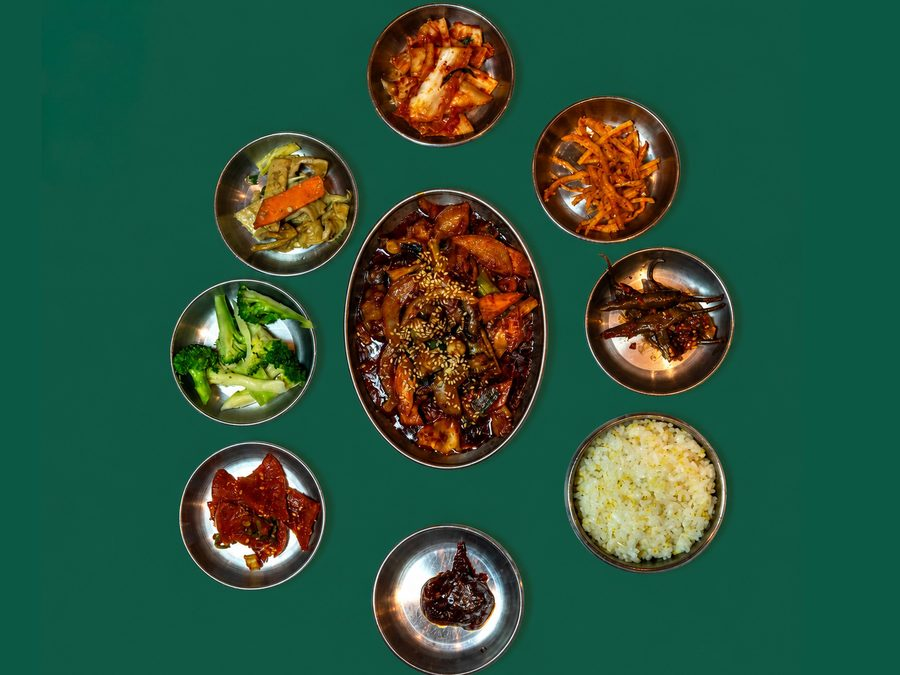
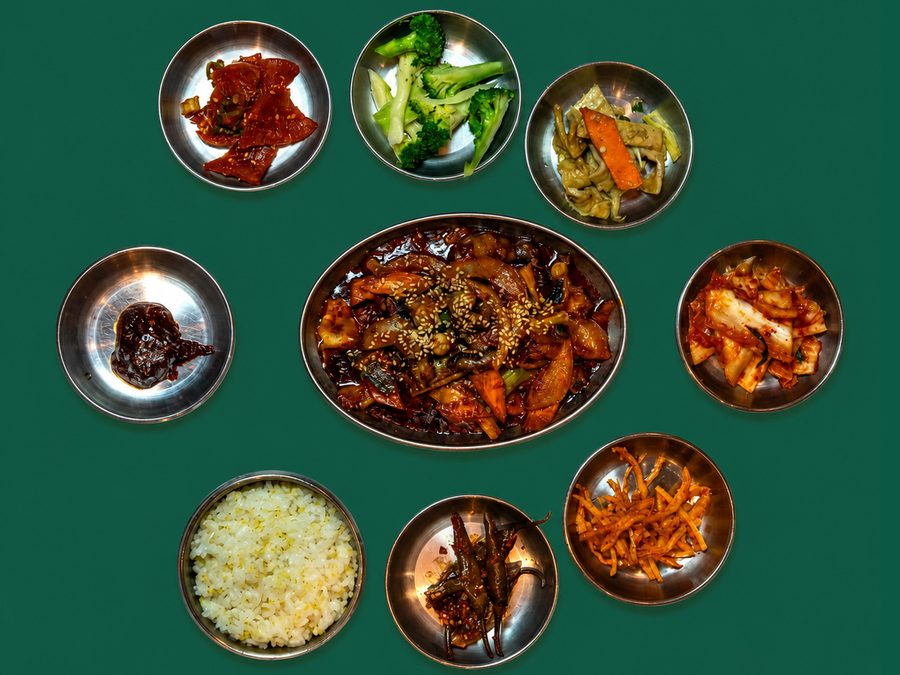
낙지볶음 사진 시계 방향 90도 회전
사진마다 회전이 필요할 수 있어 MAP 에 회전각을 넣을 수 있게 했습니다.
  "nakji.jpg": ("식사준비", "nakji", 90)   ← 세 번째 값이 시계방향 각도

diff --git a/tools/build_food_photos.py b/tools/build_food_photos.py
@@ -42,7 +42,7 @@ MAP = {
     # 2차 촬영 — 메뉴판 품목을 하나씩 찍은 사진들
     "kimchi.jpg":   ("식사준비", "kimchi-jjigae"),
     "kimchi-2.jpg": ("식사준비", "kimchi-jjigae-2"),
-    "nakji.jpg":    ("식사준비", "nakji"),
+    "nakji.jpg":    ("식사준비", "nakji", 90),   # 시계 방향 90도
     "bibimbap.jpg": ("식사준비", "bibimbap"),
     "donkatsu.jpg": ("식사준비", "donkatsu"),
     "naengmyeon.jpg": ("식사준비", "naengmyeon"),
@@ -127,7 +127,10 @@ def main() -> None:
     total = 0
     missing = []
 
-    for name, (folder, stem) in MAP.items():
+    for name, entry in MAP.items():
+        # (폴더, 파일명) 또는 (폴더, 파일명, 시계방향 회전각)
+        folder, stem = entry[0], entry[1]
+        rotate = entry[2] if len(entry) > 2 else 0
         # 받은 파일이 png 일 때도 jpg 일 때도 있어 둘 다 찾아봅니다
         src = next((SRC / folder / f"{stem}{e}" for e in (".png", ".jpg", ".jpeg")
                     if (SRC / folder / f"{stem}{e}").exists()), SRC / folder / f"{stem}.png")
@@ -136,7 +139,9 @@ def main() -> None:
             continue
 
         with Image.open(src) as im:
-            out = fit_on_background(im, RATIO, WIDTH)
+            # 시계 방향으로 돌립니다 (Pillow 는 반시계 기준이라 부호를 뒤집습니다)
+            src_im = im.rotate(-rotate, expand=True) if rotate else im
+            out = fit_on_background(src_im, RATIO, WIDTH)
 
         buf = io.BytesIO()
         out.save(buf, "JPEG", quality=QUALITY, optimize=True,
